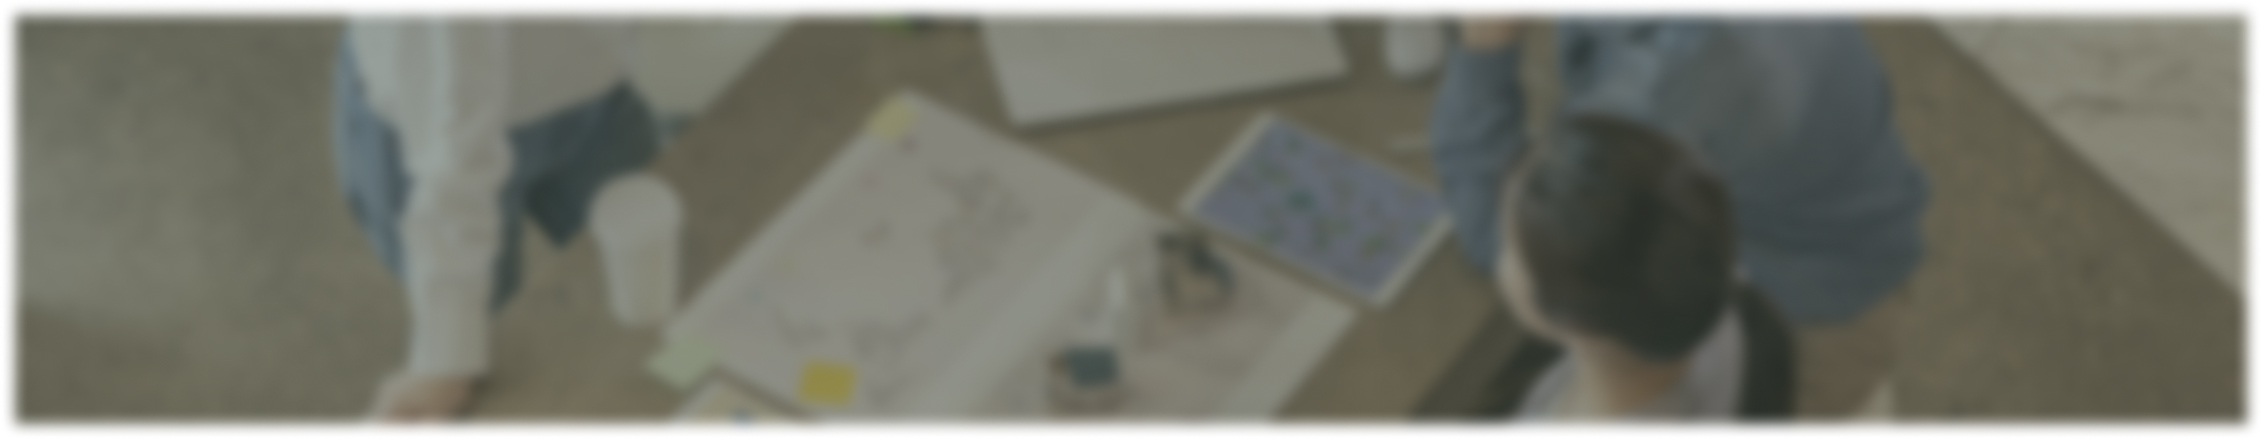
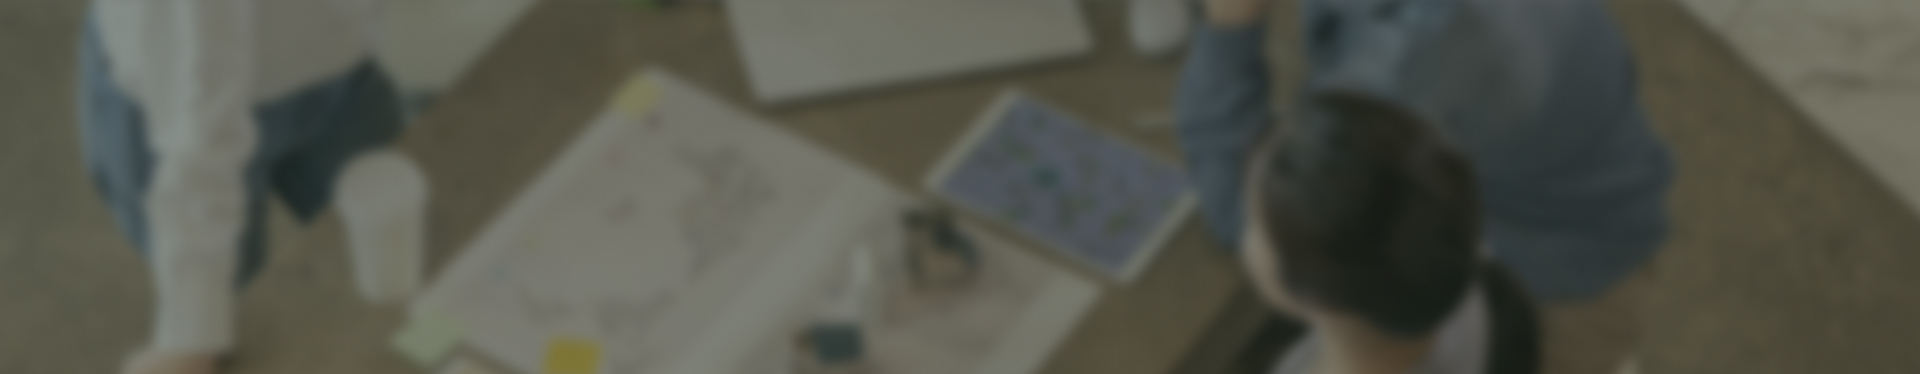
수정 사항 반영 완료

diff --git a/style/default.css b/style/default.css
@@ -619,11 +619,10 @@ button {
   font-weight: 700;
   line-height: 4.5rem;
   color: #767676;
-  border-bottom: 0.1rem solid #d8d8d8;
   white-space: nowrap;
 }
 
-.sub1__1__wrap .tab__wrap .tab__btn button.active::after {
+.sub1__1__wrap .tab__wrap .tab__btn button.active::after, .main__accn__desc__wrap .tab__btn button.active::after {
   bottom: 0;
 }
 
@@ -635,7 +634,7 @@ button {
 .tab__wrap .tab__btn button.active::after {
   content: "";
   position: absolute;
-  bottom: -0.2rem; /* 기존 border보다 위로 이동 */
+  bottom: -0.2rem;
   left: 0;
   width: 100%;
   height: 0.4rem; /* 원하는 두께로 설정 */
@@ -643,7 +642,6 @@ button {
 }
 
 .tab__border {
-  padding-bottom: 0.2rem;
   border-bottom: 0.2rem solid #ddd;
 }
 
@@ -1246,6 +1244,7 @@ table caption {
 
 .accn__open__wrap .table__horizontal__mo .title {
   font-size: 1.9rem;
+  font-weight: 700;
 }
 
 .accn__open__wrap .table__horizontal__mo .sub__title {
@@ -1464,7 +1463,7 @@ input[type=file]::file-selector-button {
 
 .preview {
   height: 4rem;
-  border: 0.1rem solid #ddd;
+  border: 0.1rem solid #717171;
   border-radius: 0.5rem;
 }
 
@@ -2465,7 +2464,7 @@ input[type=checkbox] {
   background: url(../img/cs__center.jpg) no-repeat center;
   -webkit-backdrop-filter: blur(1.5rem);
           backdrop-filter: blur(1.5rem);
-  background-size: 105%;
+  background-size: cover;
   display: flex;
 }
 .cs__center .content__top {
@@ -3754,7 +3753,7 @@ button.mo_only {
   margin-right: 1.2rem;
 }
 
-.accn__open__wrap table {
+.accn__open__wrap .w__table {
   table-layout: fixed;
 }
 
@@ -4005,6 +4004,7 @@ button.mo_only {
   height: 1.4rem;
   color: #fff;
   border-radius: 50%;
+  font-size: 1.2rem;
 }
 
 .accn__desc__wrap .content__section:first-child {
@@ -5430,6 +5430,9 @@ button.mo_only {
   .form__table .td__container {
     padding: 0;
   }
+  .form__table .consent__chk .td__container {
+    gap: 0;
+  }
   .form__table td input[type=text], .form__table td input[type=password] {
     padding: 0.8rem 0.8rem;
     min-height: 5.6rem;
@@ -6185,6 +6188,19 @@ button.mo_only {
   .accn__desc__wrap .num__label.m__cont {
     display: inline-flex;
   }
+  .content__section .text__container .title {
+    font-size: 2.4rem;
+    margin-bottom: 3rem;
+  }
+  .accn__desc__wrap .expected__section .title {
+    font-size: 3.6rem;
+  }
+  .content__section:first-child .text__container .desc:nth-of-type(1) {
+    margin-bottom: 0;
+  }
+  .content__section:first-child .text__container .desc:nth-of-type(2) {
+    margin-bottom: 0;
+  }
   .footer__bottom .footer__logo {
     padding-top: 3.2rem;
   }
@@ -6199,6 +6215,7 @@ button.mo_only {
     display: inline-flex;
     flex-direction: column;
     font-size: 1.3rem;
+    padding: 1rem 0;
   }
   .right__icon__set a span {
     padding-top: 0.8rem;

diff --git a/notice.html b/notice.html
@@ -39,7 +39,7 @@
                 </a>
                 <!-- 전체메뉴 -->
                 <a href="#" class="hamburger">
-                    <img src="img/hamburger__icon.png" alt="전체 메뉴 아이콘">
+                    <img src="img/hamburger__icon.svg" alt="전체 메뉴 아이콘">
                     <span>전체메뉴</span>
                 </a>
                 <a href="sign__up.html" class="sign__up">
@@ -325,7 +325,7 @@
                         <tbody>
                             <tr>
 								<td class="txt--l title">
-                                    <a href="" >
+                                    <a href="notice__detail.html">
                                         2024년 노동조합 회계공시 수정기간 안내
 									</a>
 								</td>
@@ -340,7 +340,7 @@
 							</tr>
                             <tr>
 								<td class="txt--l title">
-                                    <a href="" >
+                                    <a href="notice__detail.html">
 									[공고]2024년 지역일자리사업 자치단체 추가공모
 									</a>
 								</td>
@@ -355,7 +355,7 @@
 							</tr>
                             <tr>
 								<td class="txt--l title">
-                                    <a href="" >
+                                    <a href="notice__detail.html">
 									[공고]2024년 지역일자리사업 자치단체 추가공모
 									</a>
 								</td>
@@ -370,7 +370,7 @@
 							</tr>
                             <tr>
 								<td class="txt--l title">
-                                    <a href="">
+                                    <a href="notice__detail.html">
 									[공고]2024년 지역일자리사업 자치단체 추가공모
 									</a>
 								</td>

diff --git a/style/components/_button.scss b/style/components/_button.scss
@@ -28,21 +28,21 @@ button {cursor: pointer; background: inherit;}
 // 서브 페이지 상단 탭 버튼 스타일
 .tab__wrap {width: 100%;max-width: 128rem;margin: 0px auto;display: flex;align-items: center; margin-top: 8rem;}
 .tab__btn {flex: 1; height: 4.5rem; text-align: center;}
-.tab__btn > button {width: 100%; cursor: pointer; background: transparent; font-size: 2rem;  font-weight: 700;  line-height: 4.5rem;color: #767676; border-bottom: 0.1rem solid #d8d8d8; white-space: nowrap;}
+.tab__btn > button {width: 100%; cursor: pointer; background: transparent; font-size: 2rem;  font-weight: 700;  line-height: 4.5rem;color: #767676;white-space: nowrap;}
 // tab버튼 활성화 스타일
-.sub1__1__wrap .tab__wrap .tab__btn button.active::after {bottom: 0;}
+.sub1__1__wrap .tab__wrap .tab__btn button.active::after,  .main__accn__desc__wrap .tab__btn button.active::after{bottom: 0;}
 .tab__wrap .tab__btn button.active { color: #21a366; position: relative;}
 .tab__wrap .tab__btn button.active::after {
   content: ''; 
   position: absolute;
-  bottom: -0.2rem; /* 기존 border보다 위로 이동 */
+  bottom: -0.2rem;
   left: 0;
   width: 100%;
   height: 0.4rem; /* 원하는 두께로 설정 */
   background-color: #21a366; /* 원하는 border 색상 */
 }
 
-.tab__border {padding-bottom: 0.2rem; border-bottom: 0.2rem solid #ddd;}
+.tab__border {border-bottom: 0.2rem solid #ddd;}
 .tab__btn__auto .tab__btn > button {width: auto;padding: 0 2rem; border-bottom: 0;}
     
     

diff --git a/style/utilities/_media__query.scss b/style/utilities/_media__query.scss
@@ -288,11 +288,16 @@
   .accn__desc__wrap .section .text__container p {text-align: left;}
   .accn__desc__wrap .expected__section .text__container p:nth-of-type(1) {margin-bottom: 2.4rem;}
   .accn__desc__wrap .num__label.m__cont {display: inline-flex;}
+  .content__section .text__container .title {font-size: 2.4rem; margin-bottom: 3rem;}
+  .accn__desc__wrap .expected__section .title {font-size: 3.6rem;}
+  .content__section:first-child .text__container .desc:nth-of-type(1){margin-bottom: 0;}
+  .content__section:first-child .text__container .desc:nth-of-type(2){margin-bottom: 0;}
   .footer__bottom .footer__logo {padding-top: 3.2rem;}  
   .footer__bottom .footer__flex {padding-top: 3.2rem; padding-bottom: 3.2rem;}
+
   // 상단 아이콘 셋
   .right__icon__set a:not(.hamburger) { display: none; }
-  .right__icon__set a.hamburger { display: inline-flex; flex-direction: column; font-size: 1.3rem;}
+  .right__icon__set a.hamburger { display: inline-flex; flex-direction: column; font-size: 1.3rem; padding: 1rem 0;}
   .right__icon__set a span { padding-top: 0.8rem; } 
   .right__icon__set a img { margin: 0; }
   // 공통 페이지 네이션

diff --git a/sub1__1.html b/sub1__1.html
@@ -43,7 +43,7 @@
 
                 <!-- 전체메뉴 -->
                 <a href="#" class="hamburger">
-                    <img src="img/hamburger__icon.png" alt="전체 메뉴 아이콘">
+                    <img src="img/hamburger__icon.svg" alt="전체 메뉴 아이콘">
                     <span>전체메뉴</span>
                 </a>
 
@@ -221,7 +221,7 @@
         </div>
      
         <!-- PC 탭 -->
-        <div class="tab__wrap inner w__cont">
+        <div class="tab__wrap inner w__cont tab__border">
           <div class="tab__btn">
             <button type="button">노동조합정보</button>
           </div>
@@ -2039,7 +2039,7 @@
                       <div id="barChart4" class="echart"></div>
                     </div>
                     <!-- 차트 3 -->
-                    <div class="tab__4__chart__wrapper" style="margin-bottom: 0;">
+                    <div class="tab__4__chart__wrapper">
                       <div class="chart__title">
                         <h2>수입</h2>
                         <span>(단위:천원)</span>

diff --git a/style/pages/sub/_sub__content.scss b/style/pages/sub/_sub__content.scss
@@ -114,7 +114,7 @@ button.mo_only {display: none;}
 
 .accn__open__wrap .search__form__user .search .input__box > input {margin: 0 2.4rem;}
 .accn__open__wrap .search__form__user .search > div label {font-size: 1.7rem; font-weight: 700; margin-right: 1.2rem;}
-.accn__open__wrap table {table-layout: fixed;}
+.accn__open__wrap .w__table {table-layout: fixed;}
 
 // 홈 > 회계공시열람
 .accn__result table {font-size: 1.6rem;}
@@ -199,7 +199,7 @@ button.mo_only {display: none;}
 
 // 홈 > 회계공시 시스템이란
 .accn__desc__wrap .desc__inner {padding: 0 9rem;}
-.accn__desc__wrap .num__label {margin-right : 0.8rem;background-color: #000; display: inline-flex; justify-content : center; align-items: center ;width: 1.4rem; height: 1.4rem; color: #fff; border-radius: 50%;}
+.accn__desc__wrap .num__label {margin-right : 0.8rem;background-color: #000; display: inline-flex; justify-content : center; align-items: center ;width: 1.4rem; height: 1.4rem; color: #fff; border-radius: 50%; font-size: 1.2rem;}
  
 
 // 설명 1번 섹션

diff --git a/faq.html b/faq.html
@@ -42,7 +42,7 @@
 
                             <!-- 전체메뉴 -->
                             <a href="#" class="hamburger">
-                                <img src="img/hamburger__icon.png" alt="전체 메뉴 아이콘">
+                                <img src="img/hamburger__icon.svg" alt="전체 메뉴 아이콘">
                                 <span>전체메뉴</span>
                             </a>
 
@@ -305,7 +305,7 @@
                     </div>
                     <!-- 조회 결과 -->
                     <div class="table__title__wrap">
-                        <p class="data__number">총 게시글<span>652</span>건</p>
+                        <p class="data__number">총 게시글 <span>652</span>건</p>
                     </div>
                     <!-- 폴드 -->
                     <div class="foldStyle__table">

diff --git a/sign__up.html b/sign__up.html
@@ -42,7 +42,7 @@
 
                     <!-- 전체메뉴 -->
                     <a href="#" class="hamburger">
-                        <img src="img/hamburger__icon.png" alt="전체 메뉴 아이콘">
+                        <img src="img/hamburger__icon.svg" alt="전체 메뉴 아이콘">
                         <span>전체메뉴</span>
                     </a>
 
@@ -589,7 +589,7 @@
                                     </div>
                                 </td>
                             </tr>
-                            <tr>
+                            <tr class="consent__chk">
                                 <th>
                                     <label for="rdo_22-1">
                                         수신동의 여부

diff --git a/style/components/_table.scss b/style/components/_table.scss
@@ -175,7 +175,7 @@ table caption {position: absolute; top: 0; left: 0; overflow: hidden; width: 0.1
 
 .table__horizontal__mo:not(.widthAutoTable) .sub__title {width: 19.44%; min-width: 7rem; display: inline-block;}
 .table__horizontal__mo .sub__title {font-weight: 700;}
-.accn__open__wrap .table__horizontal__mo .title {font-size: 1.9rem;}
+.accn__open__wrap .table__horizontal__mo .title {font-size: 1.9rem; font-weight: 700 ;}
 .accn__open__wrap .table__horizontal__mo .sub__title {min-width: 12rem;}
 .union__management__wrap .table__horizontal__mo .sub__title {display: inline-block;width: 50%;}
 

diff --git a/accn__open.html b/accn__open.html
@@ -41,7 +41,7 @@
 
 				<!-- 전체메뉴 -->
 				<a href="#" class="hamburger">
-					<img src="img/hamburger__icon.png" alt="전체 메뉴 아이콘">
+					<img src="img/hamburger__icon.svg" alt="전체 메뉴 아이콘">
 					<span>전체메뉴</span>
 				</a>
 
@@ -418,6 +418,7 @@
                     </table>
                 </div>
 		  </div>
+		  
 		  	<!-- 테이블 페이지 이동 버튼 -->
 			<div class="accn__open__page">
 				<div class="pagination w-page pagination__margin">
@@ -457,7 +458,6 @@
 					</div>
 				</div>
 			</div>
-
 		</div>
 		</div>
 	</main>

diff --git a/style/pages/_login.scss b/style/pages/_login.scss
@@ -91,6 +91,7 @@
      .form__table th {padding-left: 0;  margin-bottom: 1.2rem; width: 100%; background-color: transparent; } 
      .form__table.border-top-large{border-top: 0;}
      .form__table .td__container {padding: 0;}
+     .form__table .consent__chk .td__container {gap: 0;} // 수신동의 gap 제거
      .form__table td input[type="text"], .form__table td input[type="password"] {padding: 0.8rem 0.8rem; min-height: 5.6rem;} 
      .form__table td select {min-height: 5.6rem; font-size: 1.7rem; color: #555555;}
  

diff --git a/union__management.html b/union__management.html
@@ -40,7 +40,7 @@
                         </a>
                         <!-- 전체메뉴 -->
                         <a href="#" class="hamburger">
-                            <img src="img/hamburger__icon.png" alt="전체 메뉴 아이콘">
+                            <img src="img/hamburger__icon.svg" alt="전체 메뉴 아이콘">
                             <span>전체메뉴</span>
                         </a>
                         <a href="sign__up.html" class="sign__up">
